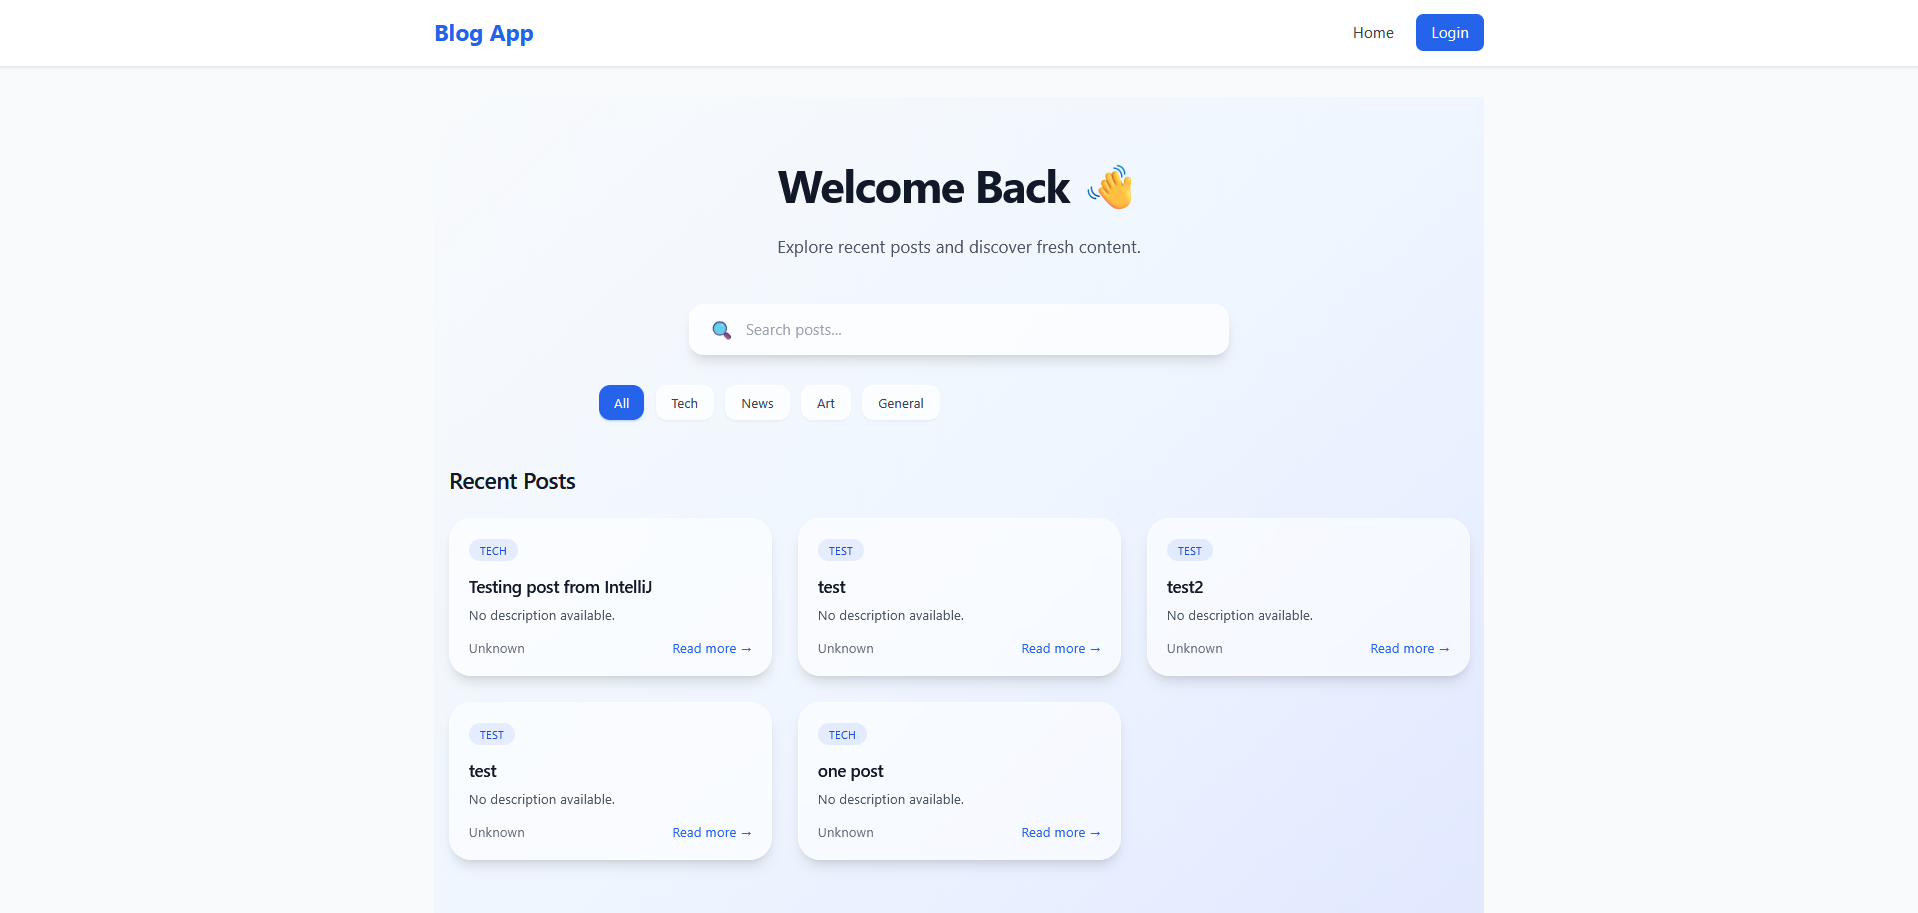
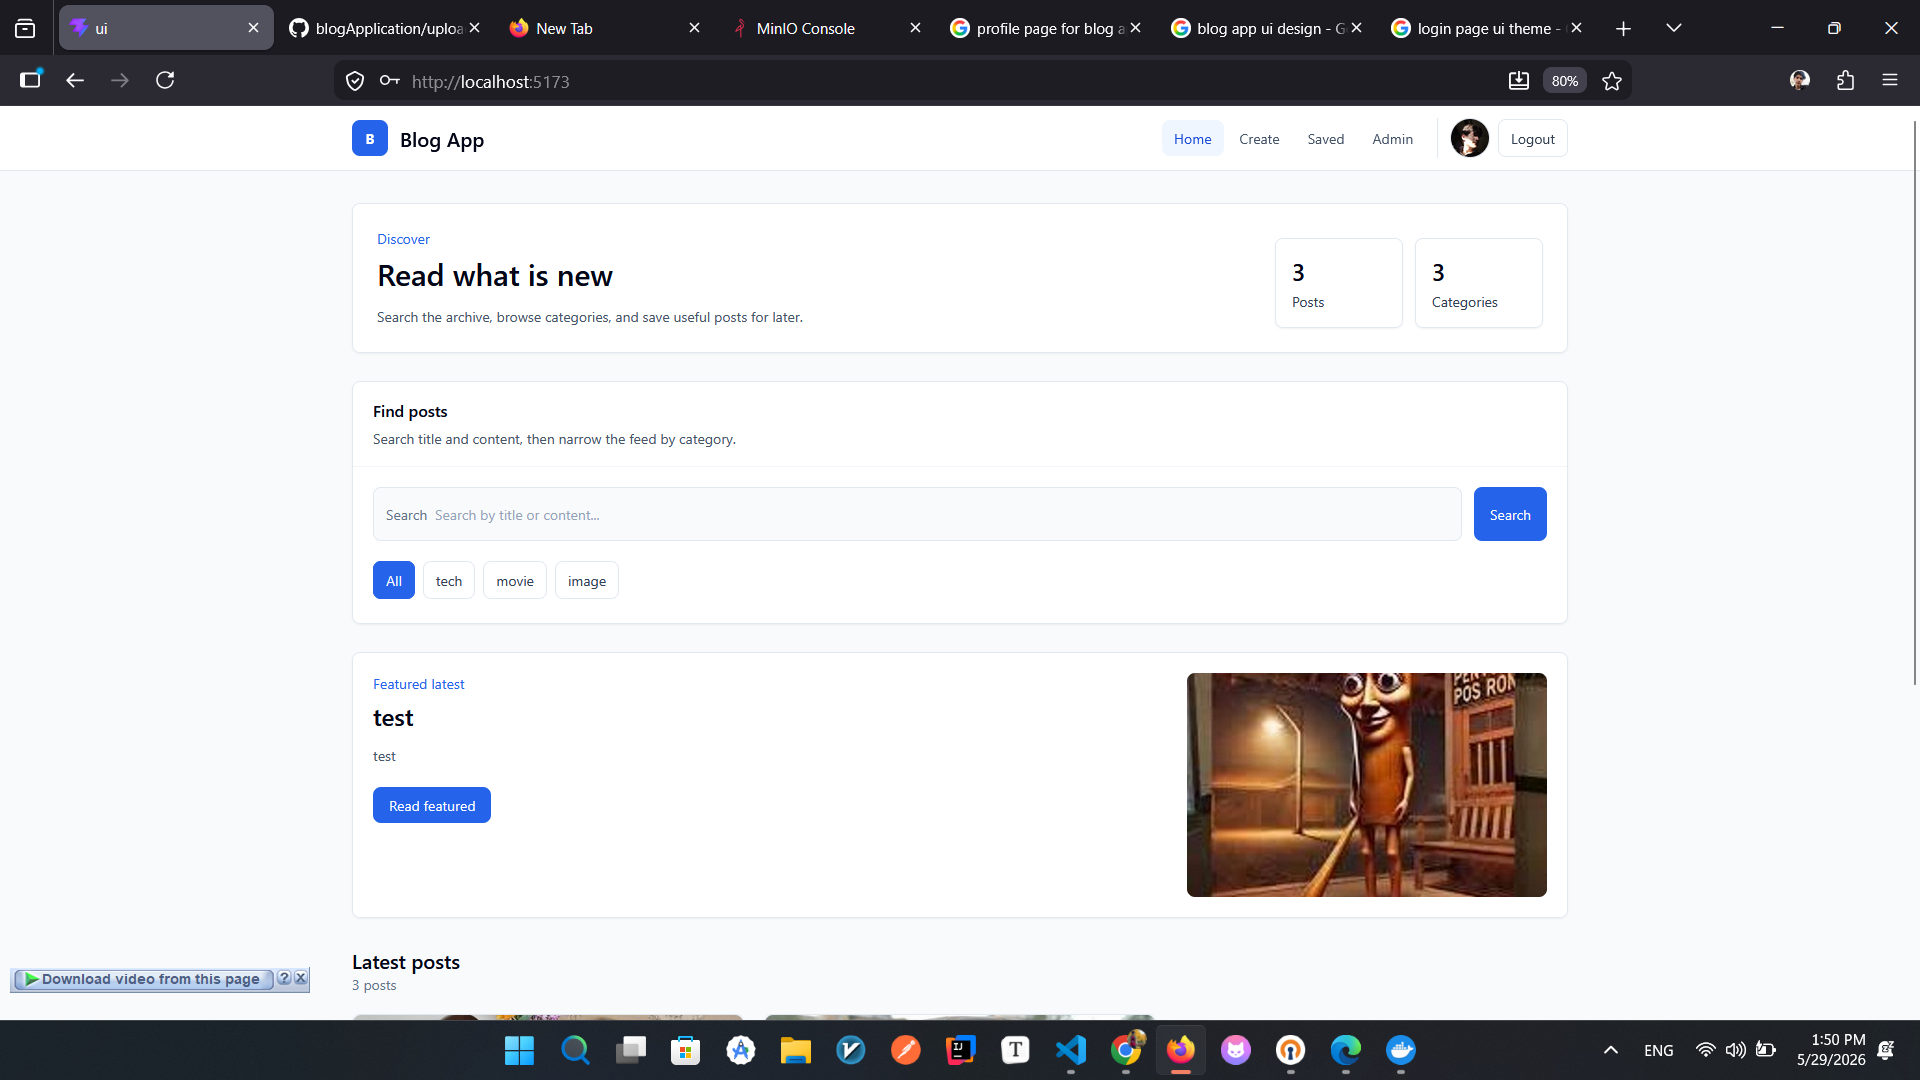
updated README.md

diff --git a/README.md b/README.md
@@ -351,10 +351,44 @@ uploads/screenshots/
 
 Current examples:
 
+### Home
+
 ![Home Page](uploads/screenshots/home_page.png)
 ![Home Page 2](uploads/screenshots/home_page2.png)
-![Post Details](uploads/screenshots/post_details.png)
+
+### Post Details
+
+![Post Details](uploads/screenshots/postdetail_page.png)
+![Post Details Comments](uploads/screenshots/postdetail_page2.png)
+![Post Details More](uploads/screenshots/postdetail_page3.png)
+
+### Create Post
+
+![Create Post](uploads/screenshots/createPost_page.png)
+
+### Saved Posts
+
+![Saved Posts](uploads/screenshots/saved_page.png)
+
+### Profile
+
+![Profile Page](uploads/screenshots/profile_page.png)
+![Profile Page 2](uploads/screenshots/profile_page2.png)
+
+### Admin Dashboard
+
+![Dashboard](uploads/screenshots/dashboard_page.png)
+![Dashboard Users](uploads/screenshots/dashboard_page2.png)
+![Dashboard Posts](uploads/screenshots/dashboard_page3.png)
+![Dashboard Categories](uploads/screenshots/dashboard_page4.png)
+
+### Auth and Mobile
+
 ![Login Page](uploads/screenshots/login_page.png)
+![Mobile View](uploads/screenshots/mobile_view.png)
+![Mobile View 2](uploads/screenshots/mobile_view2.png)
+![Mobile View 3](uploads/screenshots/mobile_view3.png)
+![Mobile View 4](uploads/screenshots/mobile_view4.png)
 
 ## Future Improvements
 
